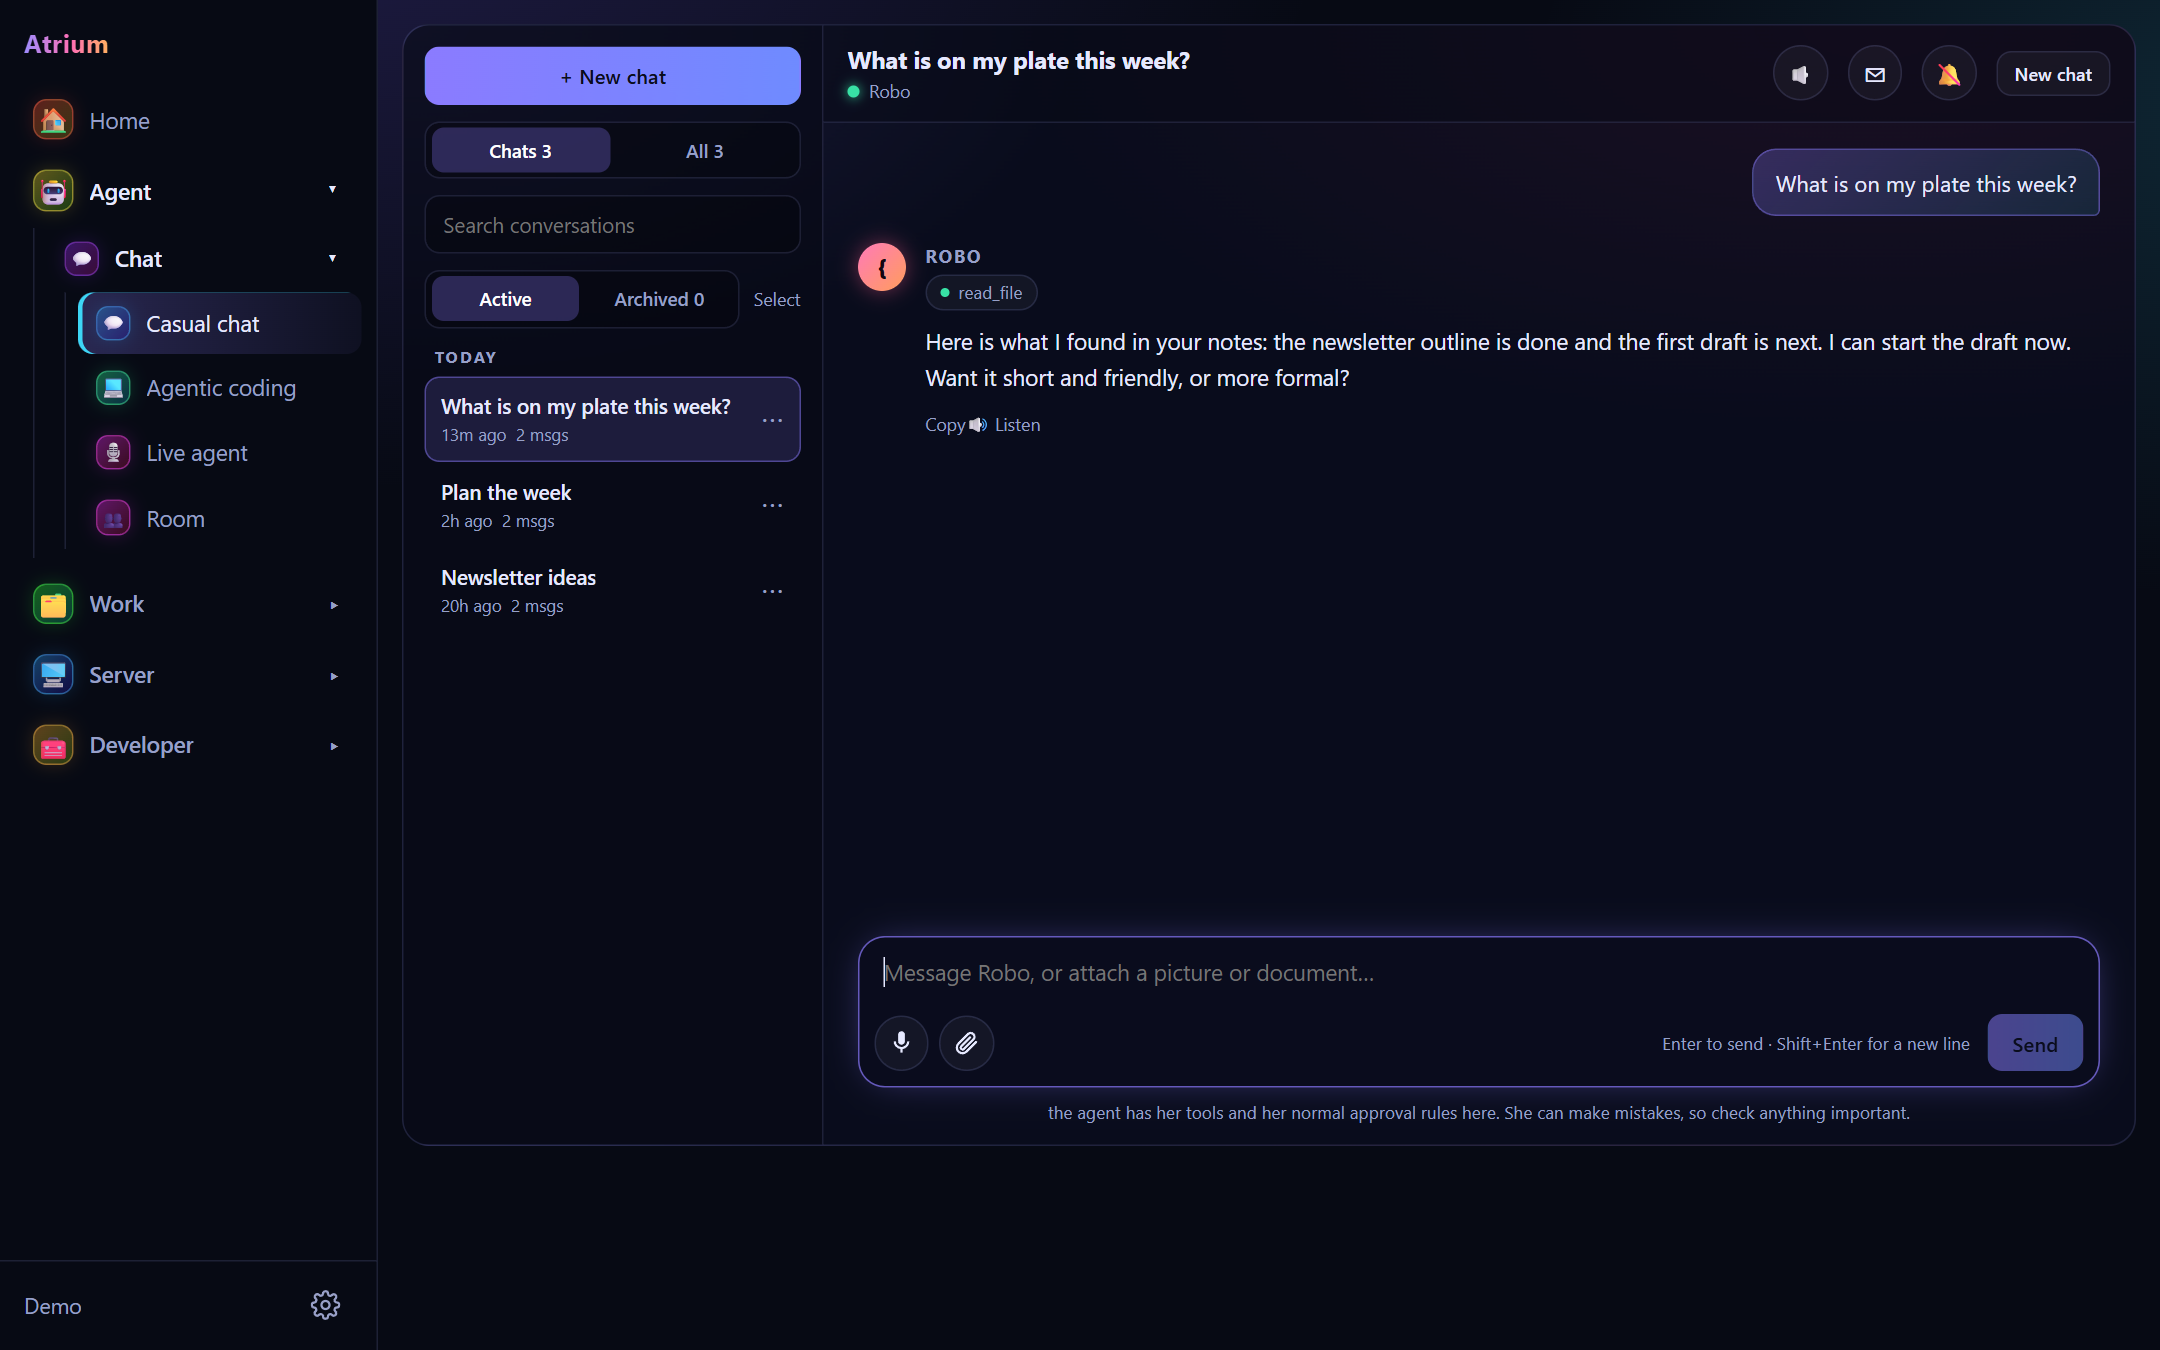
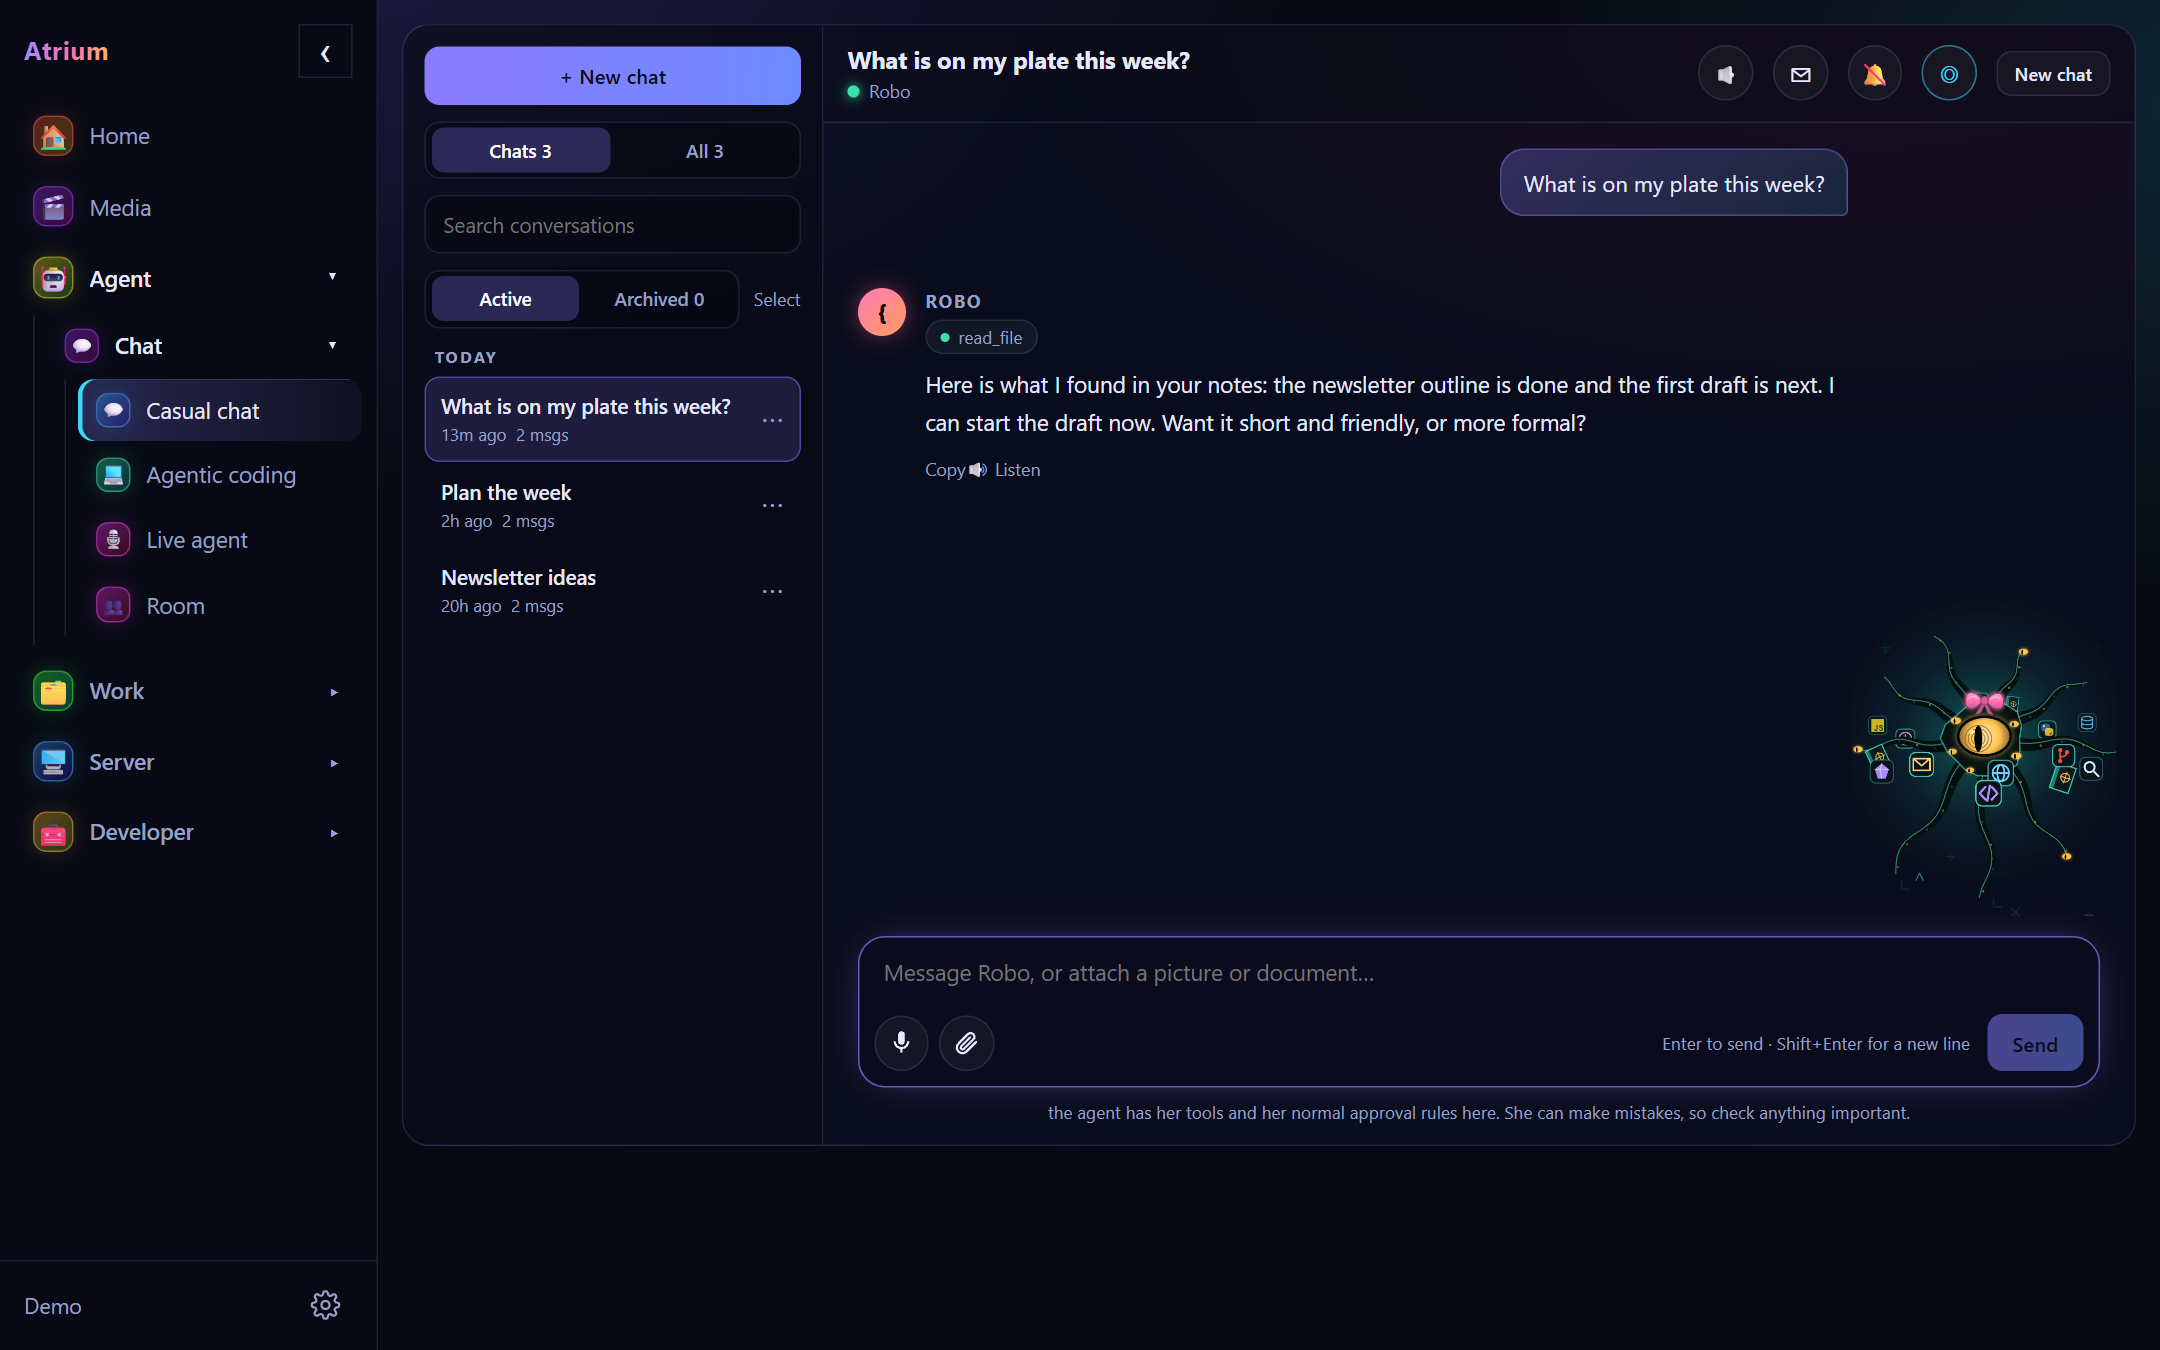
Docs: refresh screenshots and social preview, say AGPL-3.0 everywhere, list the newer pages
The screenshots (taken 2026-11-15) predate Media, the Home tiles and the sidebar
collapse button; they are retaken from the demo (made-up data only). The social
preview and the README license badge said MIT while the license is AGPL-3.0. The
README now lists Email, Files and Calendar, Media, REA and chat reactions. A test
fixture key named after a private instance is renamed to a neutral one.

diff --git a/tests/nav.test.js b/tests/nav.test.js
@@ -160,7 +160,7 @@ const PAGES = [P("home", "Home", "", 0), P("chat", "Chat", "Agent", 10), P("memo
   await new Promise((r) => setTimeout(r, 50));
   assert(w.document.getElementById("vn-shell").classList.contains("vn-rail"), "a collapsed sidebar stays collapsed on the next page");
   w.close();
-  w = boot("https://app.test/", AP, ["Server"], { "vera.sidebar.rail": "true", "vera.sidebar.collapsed": "true" }, { shell: HEAD_SHELL });
+  w = boot("https://app.test/", AP, ["Server"], { "atrium.sidebar.rail": "true", "atrium.sidebar.collapsed": "true" }, { shell: HEAD_SHELL });
   await new Promise((r) => setTimeout(r, 50));
   assert(!w.document.getElementById("vn-shell").classList.contains("vn-rail"), "storage keys of one particular install are not part of the framework");
   w.close();

diff --git a/README.md b/README.md
@@ -1,9 +1,10 @@
 # Atrium: a front end for Hermes Agent
 
-[![tests](https://github.com/ClutchCassidy420/Atrium-Front-End-for-Hermes-Agent/actions/workflows/tests.yml/badge.svg)](https://github.com/ClutchCassidy420/Atrium-Front-End-for-Hermes-Agent/actions/workflows/tests.yml) [![license: MIT](https://img.shields.io/badge/license-MIT-blue.svg)](LICENSE)
+[![tests](https://github.com/ClutchCassidy420/Atrium-Front-End-for-Hermes-Agent/actions/workflows/tests.yml/badge.svg)](https://github.com/ClutchCassidy420/Atrium-Front-End-for-Hermes-Agent/actions/workflows/tests.yml) [![license: AGPL-3.0](https://img.shields.io/badge/license-AGPL--3.0-blue.svg)](LICENSE)
 
 **A private, installable web app for your AI agent.** Chat, a mission-control home screen, scheduled jobs, a notes graph, a
-kanban board, approvals, phone notifications and a coding workspace, in one place, with real sign-in and per-person data.
+kanban board, approvals, phone notifications, a coding workspace, email, files, calendar and media, in one place, with real sign-in
+and per-person data.
 Built for [Hermes Agent](https://github.com/NousResearch/hermes-agent) and meant to run on your own hardware: no subscription,
 no cloud account needed.
 
@@ -33,8 +34,8 @@ python demo/run_demo.py
 Open <http://127.0.0.1:8770> and sign in as `demo` / `demo-demo-demo`. Everything the demo creates lives in `demo/.demo-data/`
 and is rebuilt on every start. Nothing real is read or sent anywhere.
 
-Pages that need extra services are not part of the demo: the Live agent (a 3D character file), the coding workspace (its sidecar)
-and the Room (a model key).
+Pages that need extra services are not part of the demo: the Live agent (a 3D character file), the coding workspace (its sidecar),
+the Room (a model key), Email, Files and Calendar (a mailbox and a Nextcloud), Media (a Jellyfin or Emby server) and REA (its sidecar).
 
 ## What is in it
 
@@ -44,6 +45,10 @@ and the Room (a model key).
 - **Memory**: the agent's notes (an Obsidian-style vault) as a graph, with search.
 - **Kanban**: a board for the agent's work and your ideas.
 - **Agentic coding**: projects, sessions, tool blocks, restore points, files, diffs, a terminal and a shared browser (needs the sidecar in `code-sidecar/`).
+- **Email, Files and Calendar** (optional): a mailbox over IMAP and SMTP (one for the install, or each person connects their own, up to five), with images blocked until you choose to show them; and Nextcloud files and calendar over WebDAV and CalDAV, with a reminder you can set on an event.
+- **Media** (optional): each person connects their own Jellyfin or Emby server and plays video and music in the page, with a continue-watching banner.
+- **REA workbench** (optional, owners only): upload a program or app and run read-only reverse-engineering analyses in a sealed container (needs `rea-sidecar/`).
+- **Chat extras**: emoji reactions from people and from the agent, and a UI kit (tables, dialogs, toasts) that new pages share.
 - **Live agent**: the agent on a 3D stage that speaks with lip-sync (bring your own character file).
 - **Settings, Persona, Avatar, Systems**, notifications, and an optional approval gate for actions you want to confirm.
 - **Server actions** (optional): install package updates, update Docker container groups (with a restore point, an automatic rollback if the new build is unhealthy, and a roll back button), reboot or shut down the machine from Settings, with confirmations and a cancel countdown, through a small helper that runs on the host (`host/`).

diff --git a/CHANGELOG.md b/CHANGELOG.md
@@ -2,6 +2,7 @@
 
 ## Unreleased
 
+- **README, screenshots and social preview refreshed.** The screenshots now show the current app (Media in the sidebar, the new Home tiles, container update with Roll back), and the social preview and the license badge say AGPL-3.0 instead of MIT. The README lists Email, Files, Calendar, Media and REA.
 - **Media page redesign.** A "continue watching" banner with a Resume button, libraries as chips, sideways-scrolling rows with the right picture shape (posters, wide episode pictures, square album art), video and music kept apart ("Recently added" and "New music"), albums as a track list, and a music bar that stays at the bottom while you browse and moves on to the next track. Page code only; no server changes. Tests in `tests/media.test.js`.
 - **Emoji reactions in chat.** Each message gets a **☺+** picker; people react and un-react, and see counted chips (stored per chat, private to who may open it). The agent can react by writing `[[react: 👍]]` in a reply: the page hides the marker and shows it on the message before. New `app/chat_reactions.py`, routes under `/api/plugins/atrium-chat/reactions/`. Tests in `tests/test_chat.py` and `tests/chat-reactions.test.js`.
 - **REA workbench (optional, owners only).** New **REA** page: upload a program or app and run read-only reverse-engineering analyses (JavaScript/Electron, .NET, Windows imports and signatures, Go/Rust/Python/NuGet, firmware and packed files, Ghidra search/function/decompile/cross-references) with an outline, raw view and download of the result. Runs in a new sealed `rea-sidecar/` container (internal network only, read-only system, limits, uploads never run, results deleted after a day) with REA and Ghidra pinned in its image. Off unless `REA_URL` and `REA_TOKEN` are set. New `rea-sidecar/`, `app/rea_backend.py`, `app/static/pages/rea/`; routes under `/api/rea`; page `requires` may now be `"rea"`. Tests: `tests/test_rea.py`, `tests/rea.test.js`.
